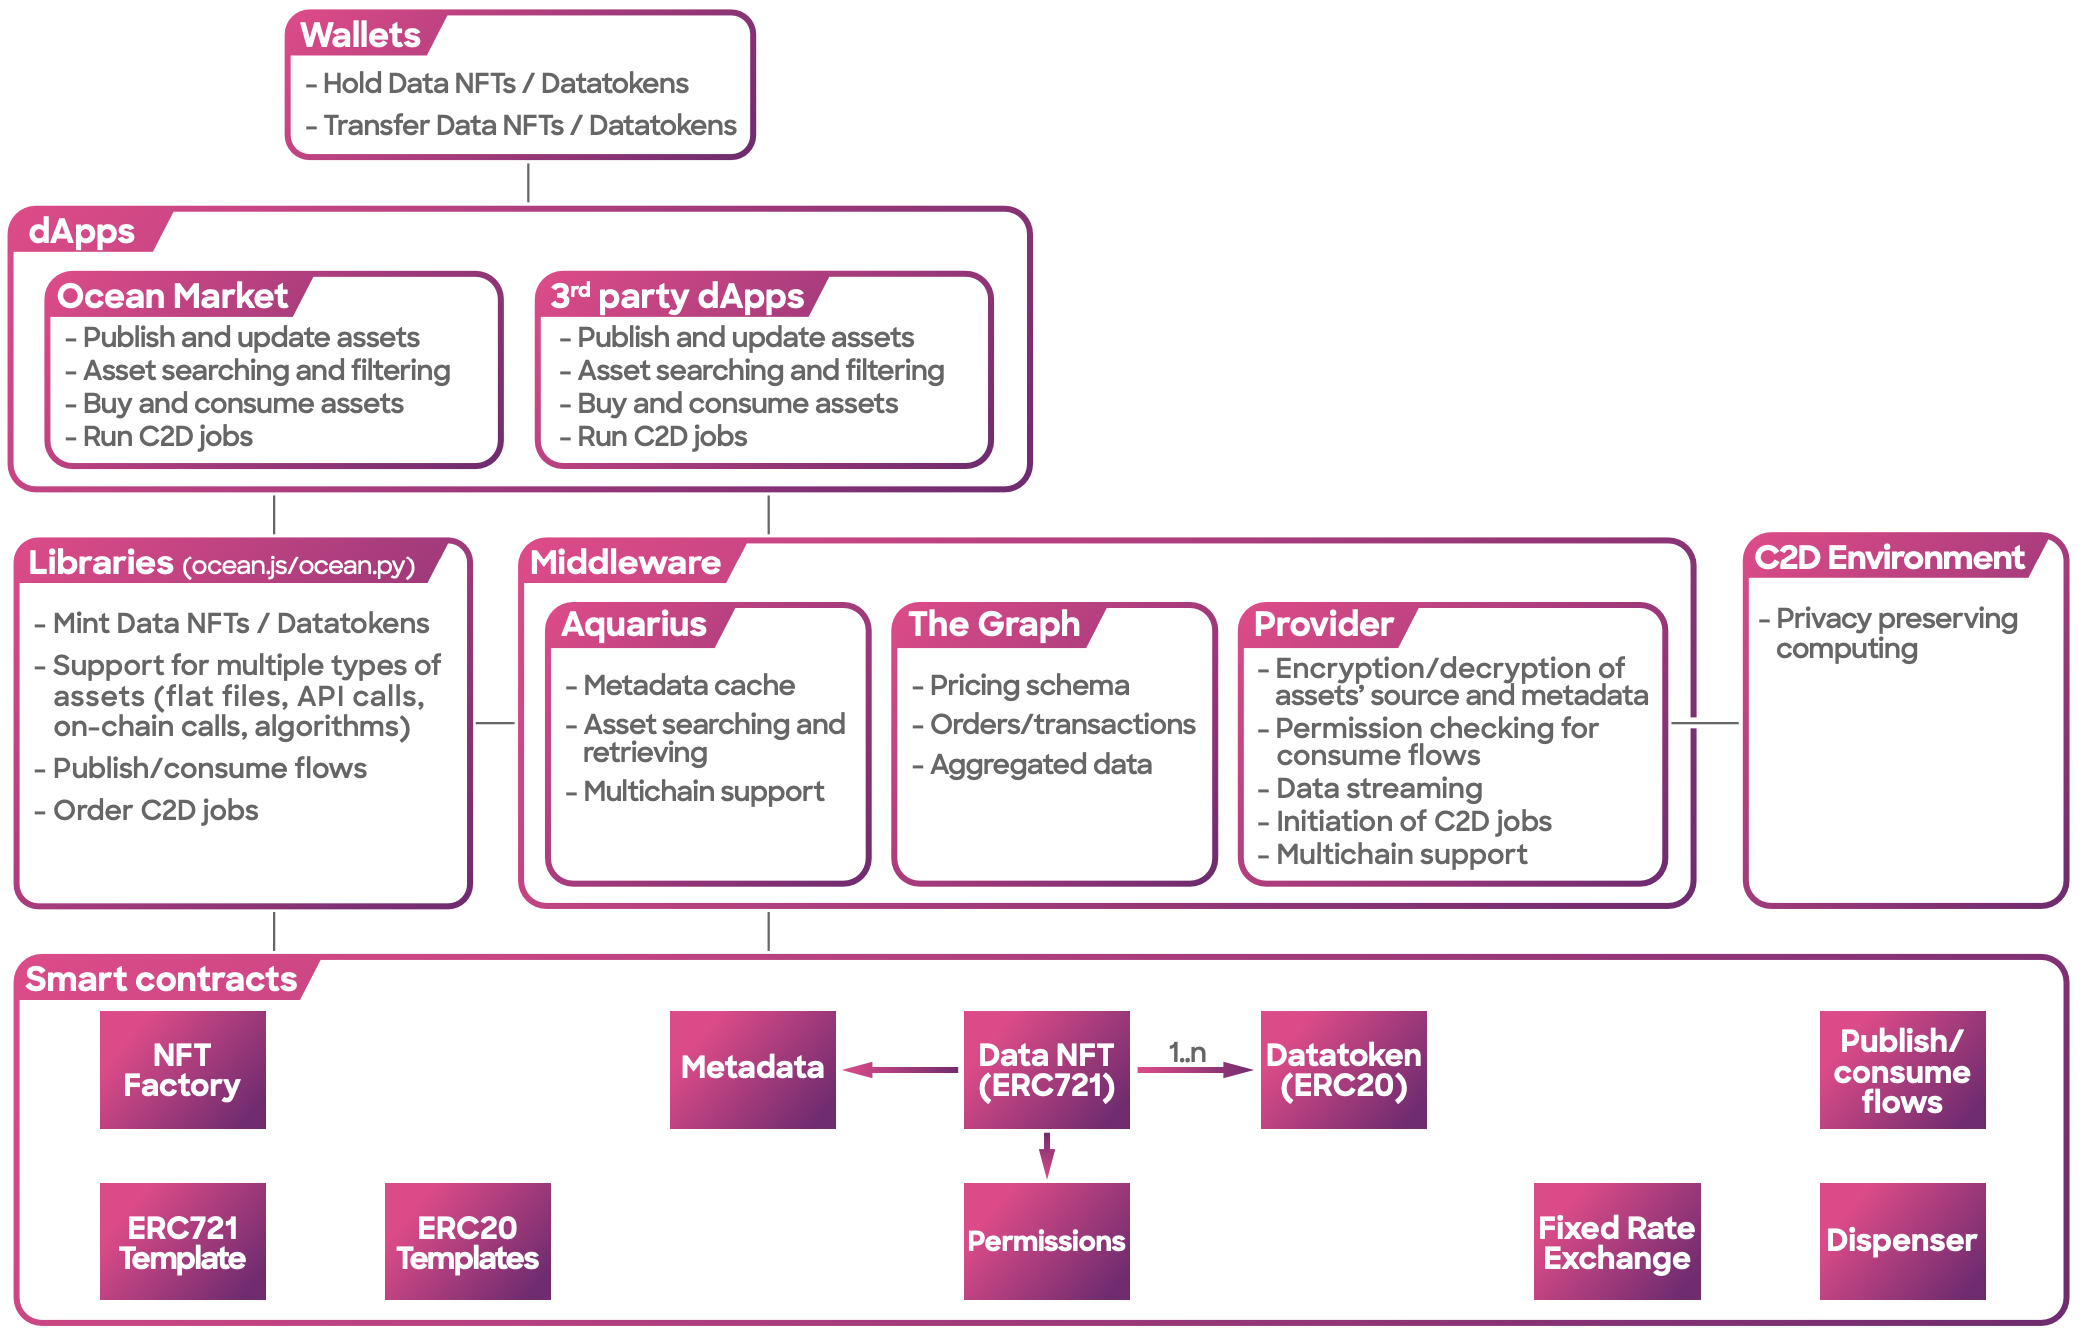
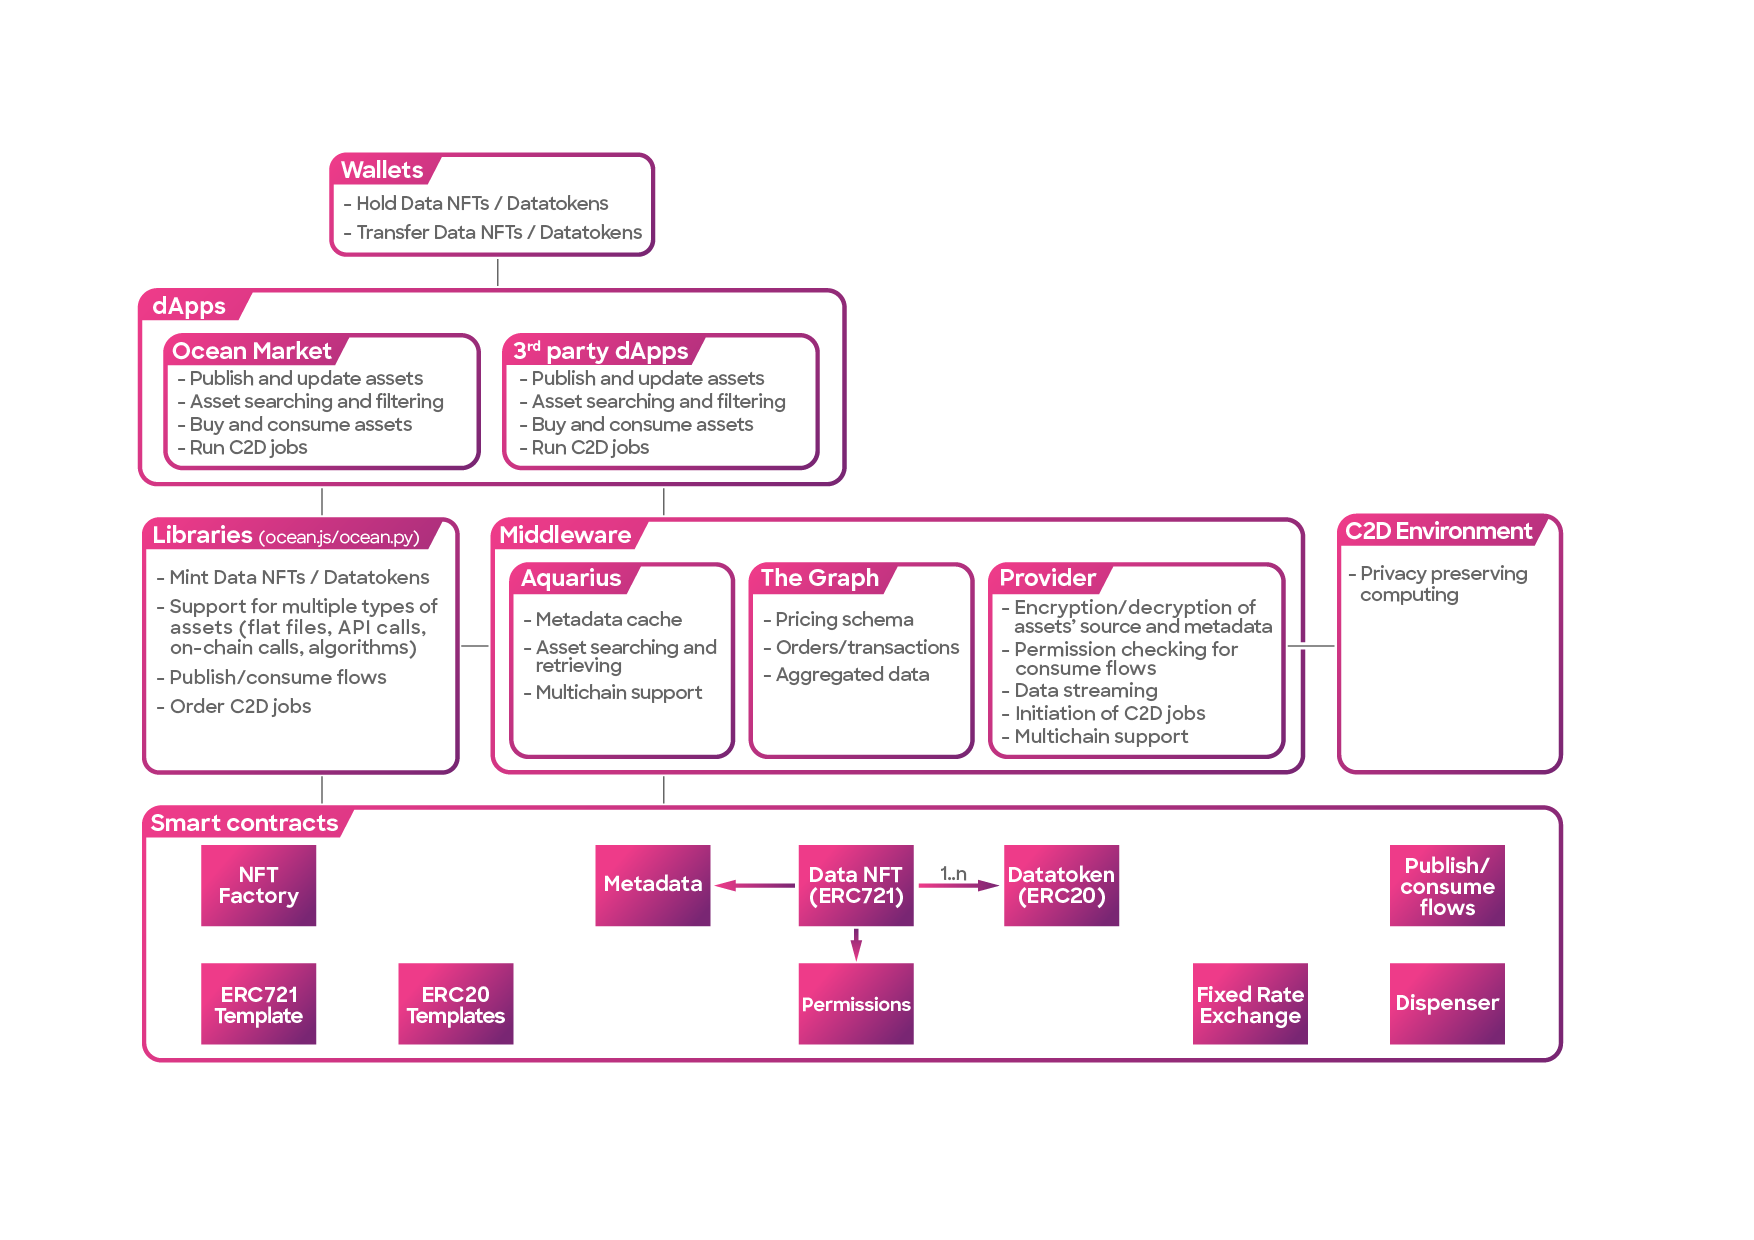
Updated images to have a transparent background

Changed region(s): [[0.0, 0.0, 1.0, 1.0]]

diff --git a/discover/wallets-and-ocean-tokens.md b/discover/wallets-and-ocean-tokens.md
@@ -12,7 +12,54 @@ If you don't see any Ocean Tokens in your crypto wallet software 🔎 (e.g. Meta
 
 Almost all ERC-20 wallets require these values for adding a custom token:
 
-<table data-full-width="false"><thead><tr><th width="161">Network name</th><th width="444">Contract Address</th><th width="105">Symbol</th><th>Decimals</th></tr></thead><tbody><tr><td><strong>Mainnet</strong></td><td>0x967da4048cD07aB37855c090aAF366e4ce1b9F48</td><td>OCEAN</td><td>18</td></tr><tr><td><strong>Polygon</strong><br><strong>(ex Matic)</strong></td><td>0x282d8efCe846A88B159800bd4130ad77443Fa1A1</td><td>mOCEAN</td><td>18</td></tr><tr><td><strong>BSC</strong><br><strong>Binance Smart Chain</strong></td><td>0xdce07662ca8ebc241316a15b611c89711414dd1a</td><td>OCEAN</td><td>18</td></tr><tr><td><strong>Görli</strong></td><td>0xCfDdA22C9837aE76E0faA845354f33C62E03653a</td><td>OCEAN</td><td>18</td></tr><tr><td><strong>Mumbai</strong></td><td>0xd8992Ed72C445c35Cb4A2be468568Ed1079357c8</td><td>OCEAN</td><td>18</td></tr></tbody></table>
+<table data-full-width="false">
+   <thead>
+      <tr>
+         <th width="161">Network name</th>
+         <th width="444">Contract Address</th>
+         <th width="105">Symbol</th>
+         <th>Decimals</th>
+      </tr>
+   </thead>
+   <tbody>
+      <tr>
+         <td><strong>Mainnet</strong></td>
+         <td>0x967da4048cD07aB37855c090aAF366e4ce1b9F48</td>
+         <td>OCEAN</td>
+         <td>18</td>
+      </tr>
+      <tr>
+         <td><strong>Polygon</strong><br><strong>(ex Matic)</strong></td>
+         <td>0x282d8efCe846A88B159800bd4130ad77443Fa1A1</td>
+         <td>mOCEAN</td>
+         <td>18</td>
+      </tr>
+      <tr>
+         <td><strong>BSC</strong><br><strong>Binance Smart Chain</strong></td>
+         <td>0xdce07662ca8ebc241316a15b611c89711414dd1a</td>
+         <td>OCEAN</td>
+         <td>18</td>
+      </tr>
+      <tr>
+         <td><strong>Görli</strong></td>
+         <td>0xCfDdA22C9837aE76E0faA845354f33C62E03653a</td>
+         <td>OCEAN</td>
+         <td>18</td>
+      </tr>
+      <tr>
+         <td><strong>Mumbai</strong></td>
+         <td>0xd8992Ed72C445c35Cb4A2be468568Ed1079357c8</td>
+         <td>OCEAN</td>
+         <td>18</td>
+      </tr>
+      <tr>
+         <td><strong>Sepolia</strong></td>
+         <td>0x1B083D8584dd3e6Ff37d04a6e7e82b5F622f3985</td>
+         <td>OCEAN</td>
+         <td>18</td>
+      </tr>
+   </tbody>
+</table>
 
 The [OCEAN Token page](https://oceanprotocol.com/token) at oceanprotocol.com has further details.
 
